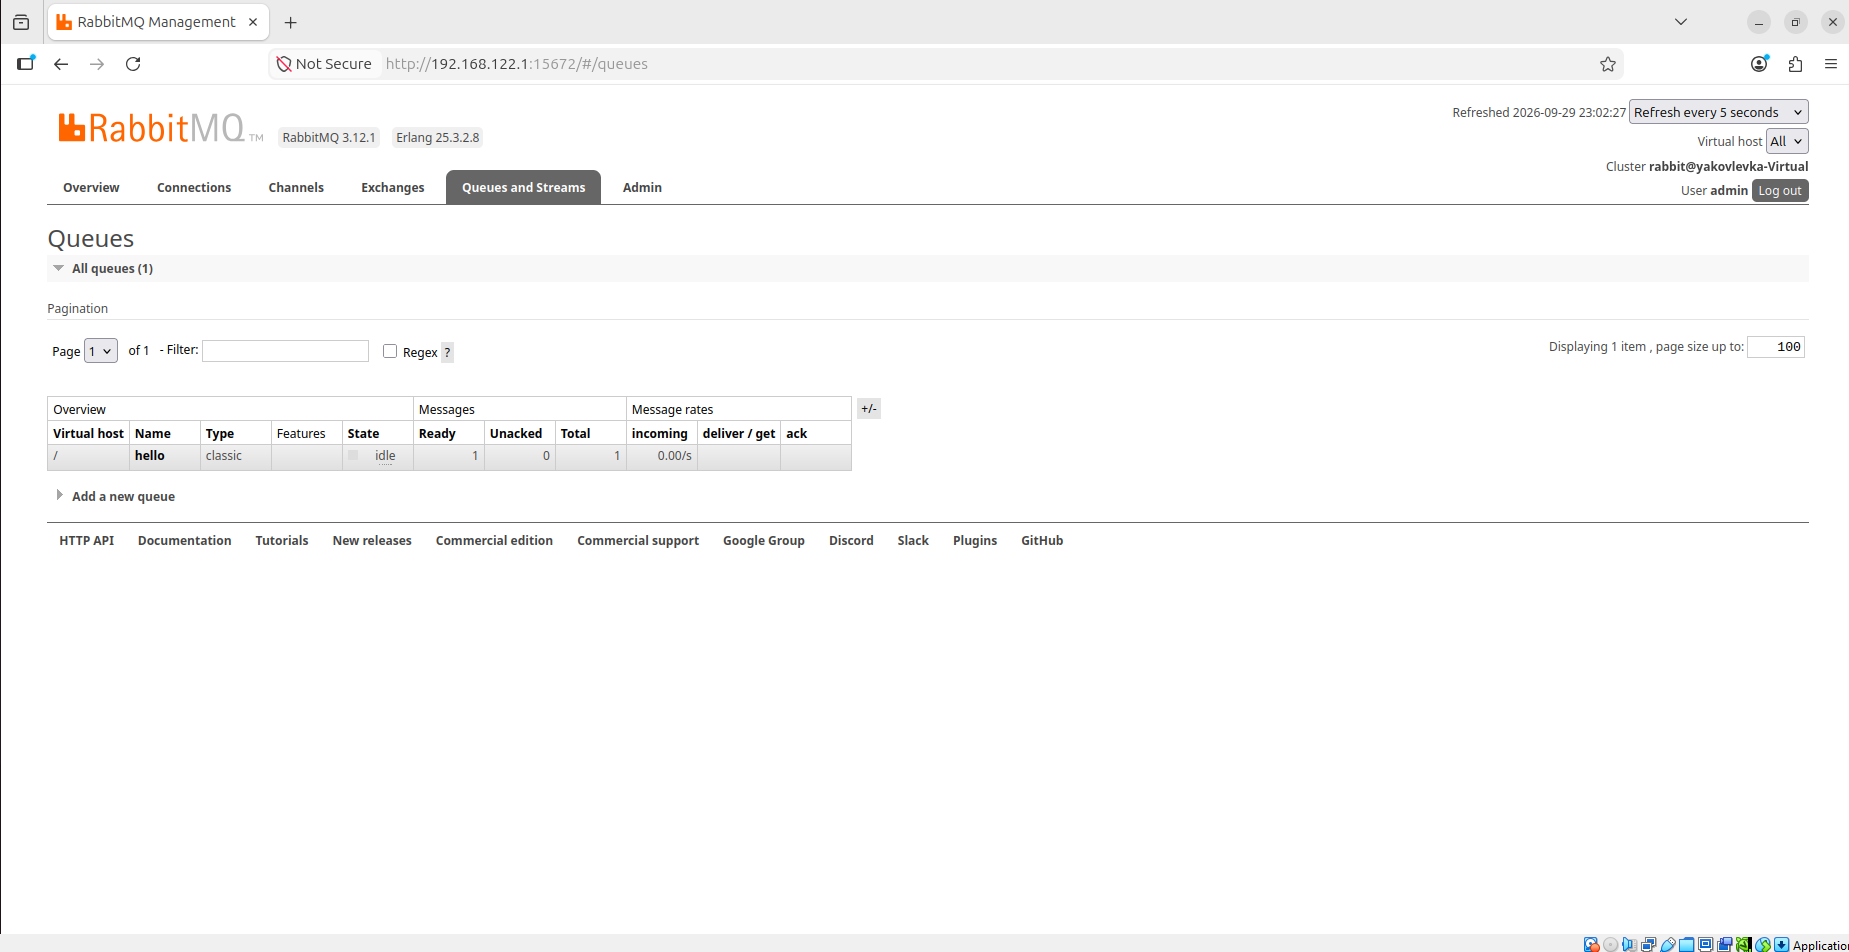
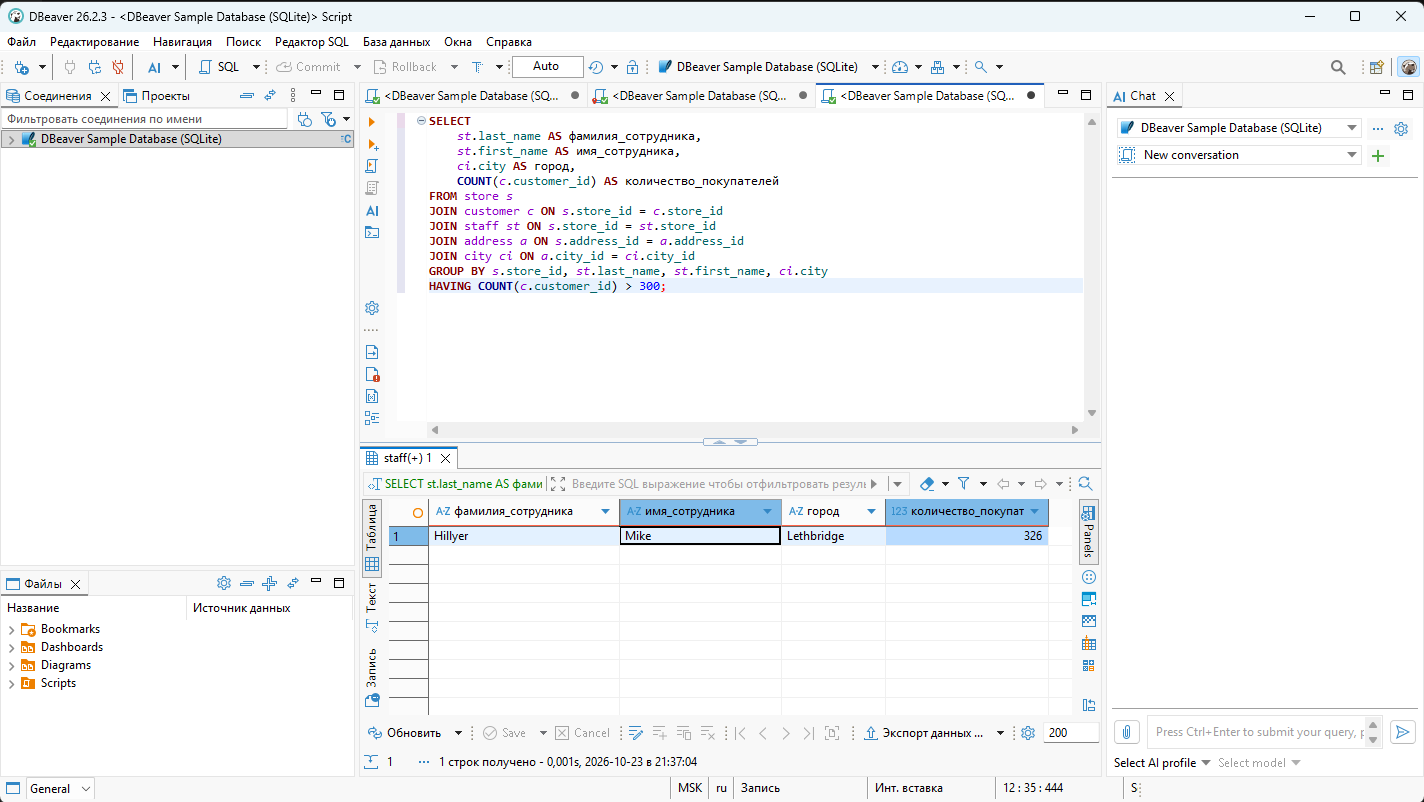
Выполнено ДЗ 12-04 (SQL. Часть 2)

diff --git a/README.md b/README.md
@@ -1,60 +1,65 @@
-# Домашнее задание к «Очереди RabbitMQ» - `Яковлев Кирилл`
+# Домашнее задание к занятию «SQL. Часть 2» - Яковлев Кирилл
 
+### Задание 1
+Одним запросом получите информацию о магазине, в котором обслуживается более 300 покупателей, и выведите в результат следующую информацию:
+- фамилия и имя сотрудника из этого магазина;
+- город нахождения магазина;
+- количество пользователей, закреплённых в этом магазине.
 
-### Задание 1. Установка RabbitMQ
-
-`Используя Vagrant или VirtualBox, создайте виртуальную машину и установите RabbitMQ. Добавьте management plug-in и зайдите в веб-интерфейс. Итогом выполнения домашнего задания будет приложенный скриншот веб-интерфейса RabbitMQ.`
-
-### Решение 1
-
-`Скриншот установки RabbitMQ`
-![task_1](https://github.com/djimboliv/8-03-hw/tree/main/img/task_1.png)
-
-
-### Задание 2. Отправка и получение сообщений
-
-`Используя приложенные скрипты, проведите тестовую отправку и получение сообщения. Для отправки сообщений необходимо запустить скрипт producer.py. Для работы скриптов вам необходимо установить Python версии 3 и библиотеку Pika. Также в скриптах нужно указать IP-адрес машины, на которой запущен RabbitMQ, заменив localhost на нужный IP.`
+**Запрос:**
+```sql
+SELECT 
+    st.last_name AS фамилия_сотрудника,
+    st.first_name AS имя_сотрудника,
+    ci.city AS город,
+    COUNT(c.customer_id) AS количество_покупателей
+FROM store s
+JOIN customer c ON s.store_id = c.store_id
+JOIN staff st ON s.store_id = st.store_id
+JOIN address a ON s.address_id = a.address_id
+JOIN city ci ON a.city_id = ci.city_id
+GROUP BY s.store_id, st.last_name, st.first_name, ci.city
+HAVING COUNT(c.customer_id) > 300;
 ```
-$ pip install pika
+
+**Результат:**
+![Задание 1](https://github.com/djimboliv/8-03-hw/tree/main/img/task_1.png)
+
+---
+
+### Задание 2
+Получите количество фильмов, продолжительность которых больше средней продолжительности всех фильмов.
+
+**Запрос:**
+```sql
+SELECT 
+    COUNT(film_id) AS количество_фильмов
+FROM film
+WHERE length > (
+    SELECT AVG(length) 
+    FROM film
+);
 ```
-` Зайдите в веб-интерфейс, найдите очередь под названием hello и сделайте скриншот. После чего запустите второй скрипт consumer.py и сделайте скриншот результата выполнения скрипта В качестве решения домашнего задания приложите оба скриншота, сделанных на этапе выполнения. Для закрепления материала можете попробовать модифицировать скрипты, чтобы поменять название очереди и отправляемое сообщение.`
 
-### Решение 2
+**Результат:**
+![Задание 2](https://github.com/djimboliv/8-03-hw/tree/main/img/task_2.png)
 
-`Скриншот отправки сообщениия`
-![task_2](https://github.com/djimboliv/8-03-hw/tree/main/img/task_2.png)
+---
 
+### Задание 3
+Получите информацию, за какой месяц была получена наибольшая сумма платежей, и добавьте информацию по количеству аренд за этот месяц.
 
-### Задание 3. Подготовка HA кластера
-
-`Используя Vagrant или VirtualBox, создайте вторую виртуальную машину и установите RabbitMQ. Добавьте в файл hosts название и IP-адрес каждой машины, чтобы машины могли видеть друг друга по имени.`
-
-`Пример содержимого hosts файла:`
+**Запрос:**
+```sql
+SELECT 
+    STRFTIME('%Y-%m', payment_date) AS месяц,
+    ROUND(SUM(amount), 2) AS сумма_платежей,
+    COUNT(rental_id) AS количество_аренд
+FROM payment
+GROUP BY STRFTIME('%Y-%m', payment_date)
+ORDER BY сумма_платежей DESC
+LIMIT 1;
 ```
-$ cat /etc/hosts
-192.168.0.10 rmq01
-192.168.0.11 rmq02
-```
-`После этого ваши машины могут пинговаться по имени. Затем объедините две машины в кластер и создайте политику ha-all на все очереди. В качестве решения домашнего задания приложите скриншоты из веб-интерфейса с информацией о доступных нодах в кластере и включённой политикой. Также приложите вывод команды с двух нод:`
-```
-$ rabbitmqctl cluster_status
-```
-`Для закрепления материала снова запустите скрипт producer.py и приложите скриншот выполнения команды на каждой из нод:`
-```
-$ rabbitmqadmin get queue='hello'
-```
-`После чего попробуйте отключить одну из нод, желательно ту, к которой подключались из скрипта, затем поправьте параметры подключения в скрипте consumer.py на вторую ноду и запустите его. Приложите скриншот результата работы второго скрипта.`
 
-### Решение 3
-
-`Скриншоты настройки класстеров`
-![task_3_1](https://github.com/djimboliv/8-03-hw/tree/main/img/task_3_1.png)
-![task_3_2](https://github.com/djimboliv/8-03-hw/tree/main/img/task_3_2.png)
-![task_3_cluster](https://github.com/djimboliv/8-03-hw/tree/main/img/task_3_cluster.png)
-![task_3_cluster_1](https://github.com/djimboliv/8-03-hw/tree/main/img/task_3_cluster_1.png)
-![task_3_cluster_2](https://github.com/djimboliv/8-03-hw/tree/main/img/task_3_cluster_2.png)
-![task_3_cluster_3](https://github.com/djimboliv/8-03-hw/tree/main/img/task_3_cluster_3.png)
-![task_3_cluster_4](https://github.com/djimboliv/8-03-hw/tree/main/img/task_3_cluster_4.png)
-![task_3_node](https://github.com/djimboliv/8-03-hw/tree/main/img/task_3_node.png)
-![task_3_node_1](https://github.com/djimboliv/8-03-hw/tree/main/img/task_3_node_1.png)
-![task_3_rabbitmq-server](https://github.com/djimboliv/8-03-hw/tree/main/img/task_3_rabbitmq-server.png)
+**Результат:**
+![Задание 3](https://github.com/djimboliv/8-03-hw/tree/main/img/task_3.png)
